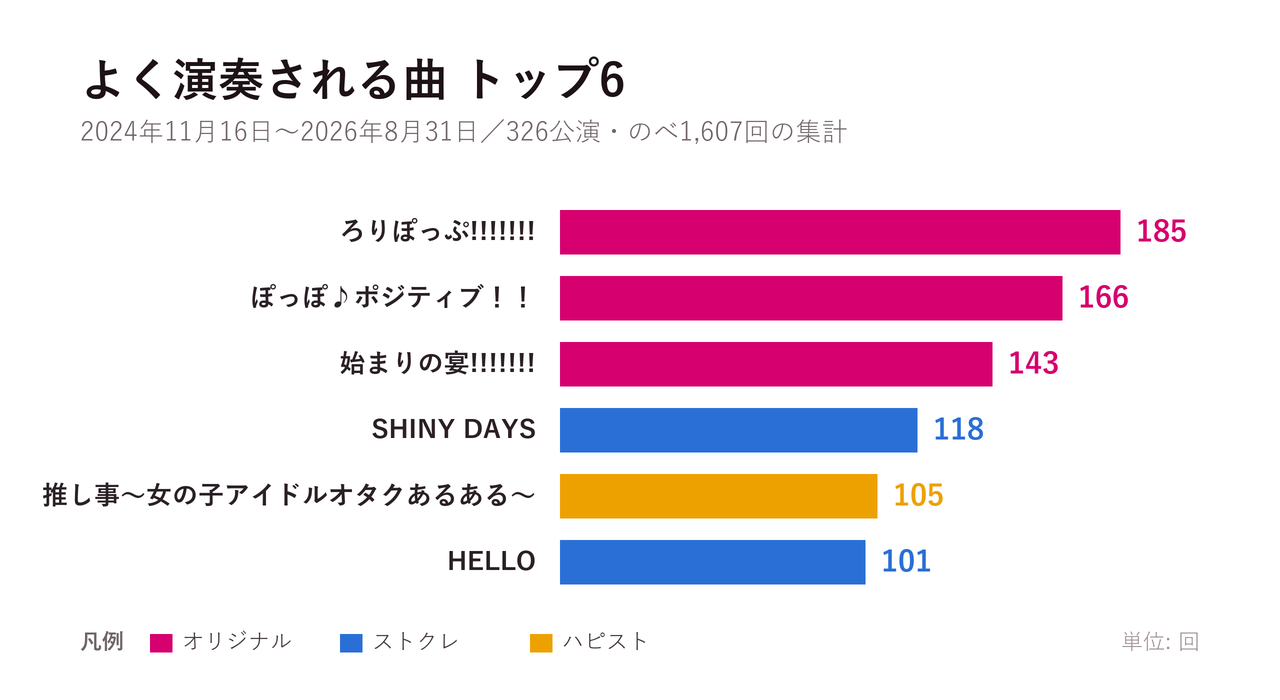
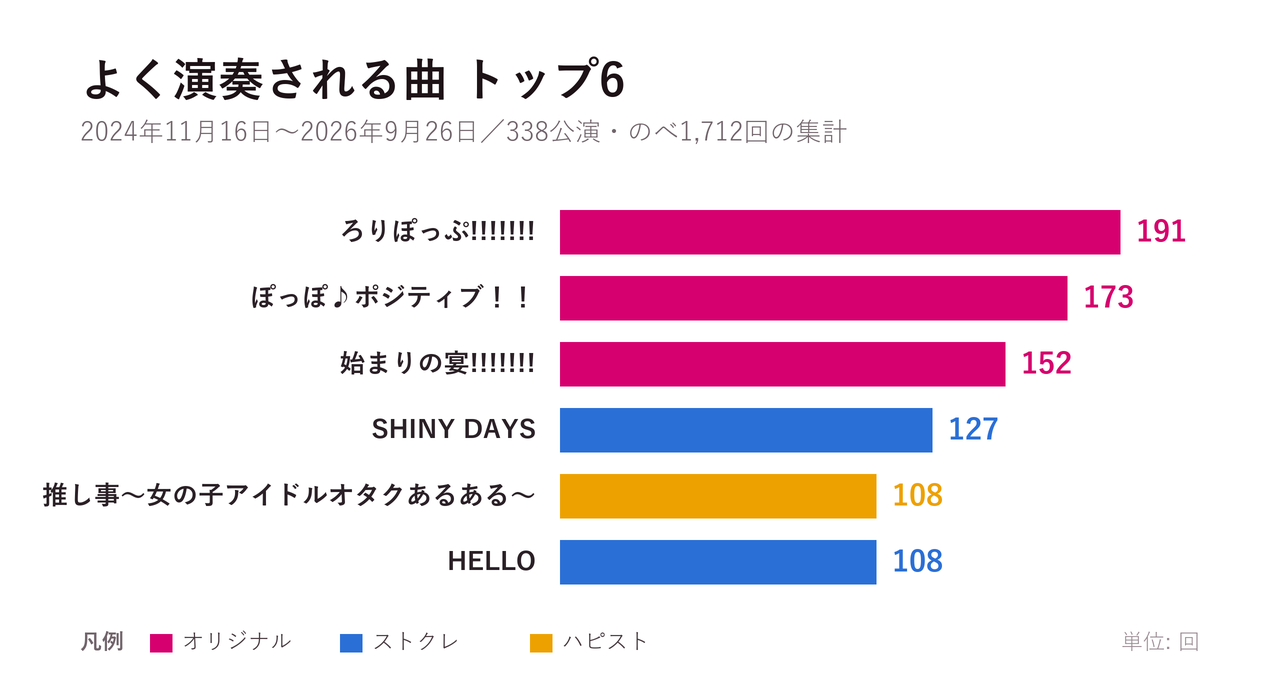
スターターパックの演奏回数を 9/26 まで数え直し、5人体制の集計を足す
- 通算: 326公演・のべ1,607回・26曲 → 338公演・のべ1,712回・28曲（〜2026-09-26。月別集計の合計と一致）
- 5人体制（8/22〜9/26・19公演）の集計を追加。最多は夏色ラムネ（19公演中12公演）
- 「まず聴くならこの3曲」をシーソーゲーム → 夏色ラムネに入れ替え、ろりぽっぷ!!!!!!!の紹介を通算の実績に変更
- 開幕・締めの通算回数と、5人体制での開幕・締めを更新。ランキング図を作り直した
- guide/starter_pack.md にも反映

Claude-Session: https://claude.ai/code/session_01PGcDMTwMr4pbwKWxSMcVuy

diff --git a/articles/スターターパック/img/make_figures.py b/articles/スターターパック/img/make_figures.py
@@ -157,15 +157,15 @@ roots()
 def ranking():
     im, d = canvas(1280, 700)
     text(d, (80, 56), "よく演奏される曲 トップ6", f(46), C["ink"])
-    text(d, (80, 118), "2024年11月16日〜2026年8月31日／326公演・のべ1,607回の集計", f(26, False), C["muted"])
+    text(d, (80, 118), "2024年11月16日〜2026年9月26日／338公演・のべ1,712回の集計", f(26, False), C["muted"])
 
-    data = [("ろりぽっぷ!!!!!!!", 185, "orig"), ("ぽっぽ♪ポジティブ！！", 166, "orig"),
-            ("始まりの宴!!!!!!!", 143, "orig"), ("SHINY DAYS", 118, "stk"),
-            ("推し事〜女の子アイドルオタクあるある〜", 105, "hpst"), ("HELLO", 101, "stk")]
+    data = [("ろりぽっぷ!!!!!!!", 191, "orig"), ("ぽっぽ♪ポジティブ！！", 173, "orig"),
+            ("始まりの宴!!!!!!!", 152, "orig"), ("SHINY DAYS", 127, "stk"),
+            ("推し事〜女の子アイドルオタクあるある〜", 108, "hpst"), ("HELLO", 108, "stk")]
     kind = {"orig": C["chart_orig"], "stk": C["chart_stk"], "hpst": C["chart_hpst"]}
     x0, bar_max, y = 560, 560, 210
     for name, v, k in data:
-        w = int(bar_max * v / 185)
+        w = int(bar_max * v / 191)
         text(d, (x0 - 24, y + 22), name, f(26), C["body_strong"], anchor="rm")
         rect(d, (x0, y, x0 + w, y + 44), fill=kind[k])
         text(d, (x0 + w + 16, y + 22), str(v), f(30), kind[k], anchor="lm")

diff --git a/articles/スターターパック/01_入門編.md b/articles/スターターパック/01_入門編.md
@@ -125,19 +125,19 @@ https://note.com/1116_fan/n/n849cd83c1bb4
 
 ## 実際によく演奏される曲
 
-ファンが記録している**326公演分**（2024年11月のデビューから2026年8月まで）の
-セットリストを数えました。のべ1,607回、26曲が演奏されています。
+ファンが記録している**338公演分**（2024年11月のデビューから2026年9月26日まで）の
+セットリストを数えました。のべ1,712回、28曲が演奏されています。
 
-- ろりぽっぷ!!!!!!!: 185回
-- ぽっぽ♪ポジティブ！！: 166回
-- 始まりの宴!!!!!!!: 143回
-- SHINY DAYS: 118回
-- 推し事〜女の子アイドルオタクあるある〜: 105回
-- HELLO: 101回
+- ろりぽっぷ!!!!!!!: 191回
+- ぽっぽ♪ポジティブ！！: 173回
+- 始まりの宴!!!!!!!: 152回
+- SHINY DAYS: 127回
+- 推し事〜女の子アイドルオタクあるある〜: 108回
+- HELLO: 108回
 
 【画像④: 演奏回数ランキング】
 
-トップの「ろりぽっぷ!!!!!!!」は326公演中185回。2位の「ぽっぽ♪ポジティブ！！」も166回で、
+トップの「ろりぽっぷ!!!!!!!」は338公演中191回。2位の「ぽっぽ♪ポジティブ！！」も173回で、
 どちらも**2回に1回以上**は演奏されている計算です。
 
 この集計をもっと細かく見た記事もあります。曲ごとの月別推移や、ルーツ別のシェアの変化まで追ったものです。
@@ -169,10 +169,15 @@ https://note.com/1116_fan/n/n74695ec1083b
 
 https://note.com/1116_fan/n/n841afa980b7e
 
-通算の集計には7人／6人体制だった時期も含まれます。5人体制が始まったのは2026年8月22日なので、
-傾向はこれからも変わっていきます。
-実際、5人体制になって初めて披露された曲として「未完成ヒロイン」「END THE WORLD」が
-2026年8月24日のライブで登場しました。
+通算の集計には7人／6人体制だった時期も含まれます。そして、5人体制が始まった2026年8月22日から9月26日までの19公演で数えると、また顔ぶれが変わります。のべ105回・22曲です。
+
+- 夏色ラムネ: 13回（19公演中12公演）
+- 始まりの宴!!!!!!!: 10回
+- SHINY DAYS: 8回
+- 未完成ヒロイン: 8回
+- 推し事〜女の子アイドルオタクあるある〜: 7回
+
+8月26日に初披露された「夏色ラムネ」が、1か月で一番よく聴ける曲になりました。9月20日に初披露された新曲「また会う日まで」も、すでに3公演で歌われています。
 
 ## ライブの「型」が読める2曲
 
@@ -190,16 +195,19 @@ https://note.com/1116_fan/n/n841afa980b7e
 コールが最初から最後まで固まっていて初見でも入れるのが、この2曲＋「ぽっぽ♪ポジティブ！！」です。
 予習するならここから（詳しくは(3)で）。
 
-（通算で見ると1曲目はろりぽっぷ!!!!!!!が76回、締めはろりぽっぷ!!!!!!!が64回・始まりの宴!!!!!!!が62回。
+（通算で見ると1曲目はろりぽっぷ!!!!!!!が79回、締めは始まりの宴!!!!!!!が67回・ろりぽっぷ!!!!!!!が66回。
 ここでも「開幕と締めはこの2曲」という形は変わりません）
+
+ただし5人体制になってからの19公演では、1曲目・締めとも「始まりの宴!!!!!!!」が最多（1曲目4回・締め5回）で、
+「ろりぽっぷ!!!!!!!」の1曲目は1回だけです。いま行くなら、まず「始まりの宴!!!!!!!」が合図になります。
 
 ## まず聴くならこの3曲
 
-最近よく演奏されている順に選びました。
+5人体制になってからの演奏回数と、通算の定番から選びました。
 
-1. **始まりの宴!!!!!!!**: 和テイストの盛り上がり曲。いま一番よく演奏され、開幕も締めもこれ。「ソイヤッ！」の掛け声が楽しい
-2. **ろりぽっぷ!!!!!!!**: グループ名を冠した看板曲。1曲目の定番なので、たいていここから始まります
-3. **シーソーゲーム**: EP「全力疾走」の新曲。お披露目から3か月で早くも定番の位置に付けました
+1. **始まりの宴!!!!!!!**: 和テイストの盛り上がり曲。5人体制になってからも開幕・締めとも一番多い曲。「ソイヤッ！」の掛け声が楽しい
+2. **夏色ラムネ**: 2026年8月の新曲。5人体制の19公演のうち12公演で歌われていて、いま一番聴ける曲です
+3. **ろりぽっぷ!!!!!!!**: グループ名を冠した看板曲。通算の演奏回数1位で、1曲目に置かれた回数も通算で一番多い曲です（79回）
 
 もう1曲だけ足すなら、**ぽっぽ♪ポジティブ！！**。最近は出番が減りましたが、
 コールが一番簡単なので、声を出してみたい人はこれも聴いておくと得します（次の(3)で詳しく書きます）。
@@ -250,7 +258,7 @@ EPは2作出ています。
 
 ## 出典
 
-- セットリストの集計はファンによる記録（2024年11月16日〜2026年8月31日／326公演）に基づきます
+- セットリストの集計はファンによる記録（2024年11月16日〜2026年9月26日／338公演）に基づきます
 - 「最近のセトリ」の数字は同じ記録のうち、3rdワンマン「全力疾走」以降
   （2026年6月6日〜8月26日／38公演・のべ200回）を数え直したものです
 - グループの基本情報は公式サイトおよび公式Xの投稿によります
@@ -268,8 +276,14 @@ https://flapinc.jp/lollipop/about
   「!」の連打はグループ名と同じ扱いで残す
 - 卒業した2人への言及は在籍時の事実（在籍期間・ルーツ・アー写に写っていること）のみ。
   卒業後の活動・私生活には触れていない
-- セトリの数字は `events/monthly_setlist_ranking.csv`（2026-09-02 再集計）から。
-  総公演数326・のべ1,607回・26曲
+- セトリの数字は 2026-09-29 に数え直した（`events/data_event.csv` をセトリのある公演だけ数え、名寄せは
+  `song_names.py`。のべ回数・曲数は `events/monthly_setlist_ranking.csv` の合計と一致）。
+  通算は 2024-11-16〜2026-09-26 の338公演・のべ1,712回・28曲。5人体制は 2026-08-22〜09-26 の19公演・のべ105回・22曲
+  （9/21 は台風で中止、9/27 はセトリ未取得のため入っていない）
+- 旧版（326公演・1,607回）から数字が動いたのは、期間を延ばしたことに加えて 9/2 以降に公演データの修正が入ったため
+  （同じ 8/31 までで数えても今は1,643回になる）
+- 「まず聴くならこの3曲」は5人体制の回数でシーソーゲーム（6回）を夏色ラムネ（13回）に入れ替えた。
+  ろりぽっぷ!!!!!!!は5人体制では4回・1曲目1回なので、「1曲目の定番」ではなく通算の実績で紹介している
 - 「ただし、最近のセトリは違います」以降の数字は `events/data_event.csv` を
   2026-06-06〜2026-08-26 で数え直したもの（38公演・のべ200回・21曲）。名寄せは
   `.claude/skills/setlist-analysis/scripts/song_names.py` と同じ。**公開済みの

diff --git a/articles/スターターパック/03_現場編.md b/articles/スターターパック/03_現場編.md
@@ -198,9 +198,9 @@ GARRET udagawa、SHIBUYA CYCLONEなど）が中心なので、そもそもどこ
 でも、これで困りません。その3曲が、**よく演奏される曲とちょうど重なっている**からです。
 ここを押さえれば、どのライブでも参加できる場所があります。
 
-（1）でも書いたとおり、最近の38公演では順位が入れ替わっています。
-「始まりの宴!!!!!!!」は最近も堂々の1位。「ろりぽっぷ!!!!!!!」は演奏回数こそ減りましたが、
-1曲目の定番であることは変わりません。「ぽっぽ♪ポジティブ！！」も出番は減りましたが、
+（1）でも書いたとおり、最近は順位が入れ替わっています。
+「始まりの宴!!!!!!!」は5人体制になってからも開幕・締めとも一番多い曲。「ろりぽっぷ!!!!!!!」は演奏回数こそ減りましたが、
+通算では1曲目に一番多く置かれてきた曲です。「ぽっぽ♪ポジティブ！！」も出番は減りましたが、
 コールが一番簡単という別の理由で覚える価値があります。
 
 【画像④: コール難易度の3曲】
@@ -440,7 +440,7 @@ https://lollipopshop.base.ec
 ## 出典
 
 - 料金・レギュレーション・撮影ルールは公式Xの告知によります
-- 演奏回数はファンによるセットリスト記録（2024年11月16日〜2026年8月31日／326公演）の集計です。
+- 演奏回数はファンによるセットリスト記録（2024年11月16日〜2026年9月26日／338公演）の集計です。
   「最近の38公演」は3rdワンマン「全力疾走」以降（2026年6月6日〜8月26日）を数え直したもの
 - 見る場所・レス・登場SEの話は、2026年8月のメンバーのX投稿と現場の慣習によります
 
